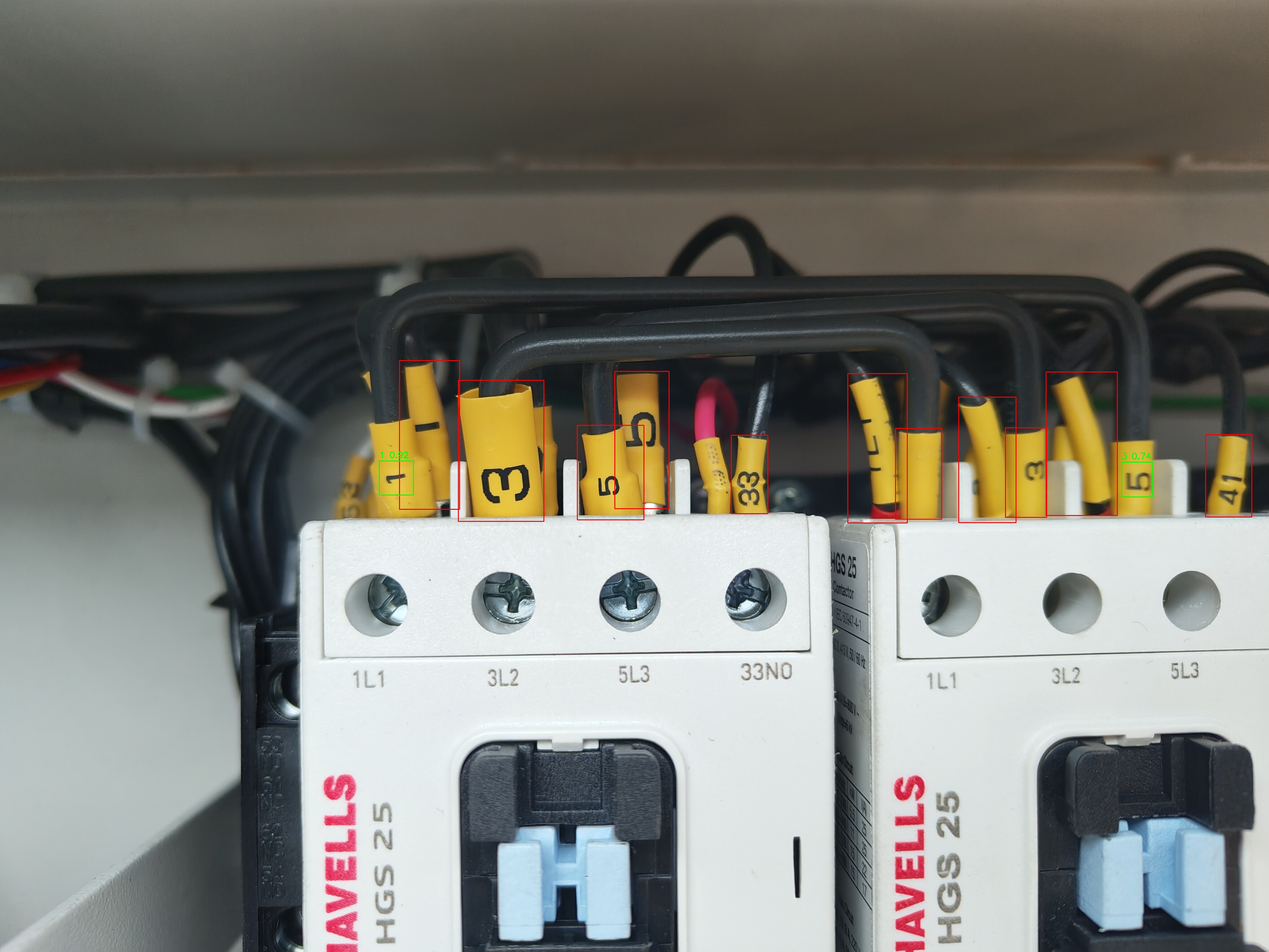
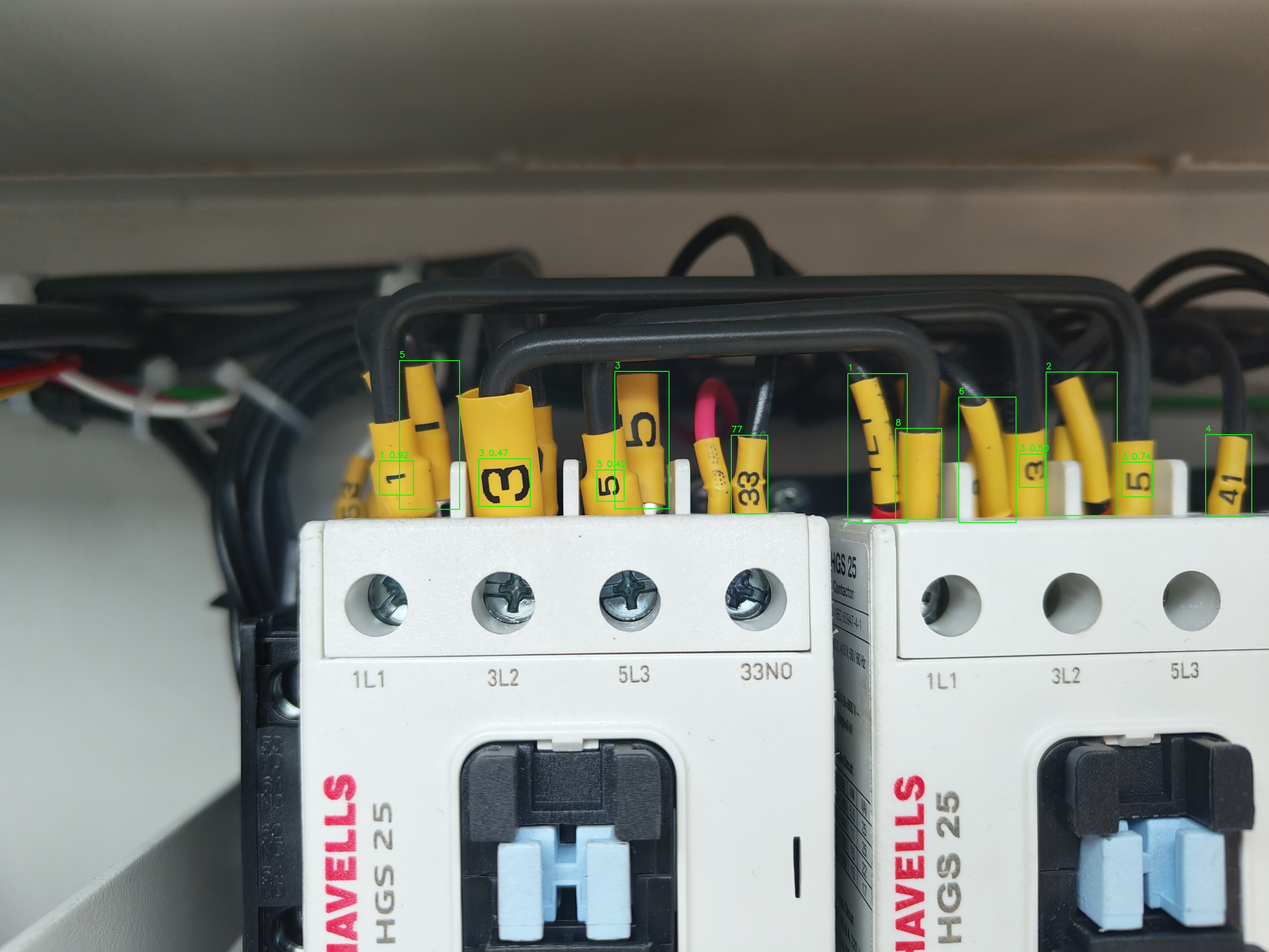
added updation

diff --git a/templates/correct_values.html b/templates/correct_values.html
@@ -9,7 +9,7 @@
     <form method="post">
         {% for idx, box in enumerate(red_boxes) %}
             <label for="box{{ idx }}">Box {{ idx }}: </label>
-            <input type="text" name="box{{ idx }}" id="box{{ idx }}">
+            <input type="text" name="{{ idx }}" id="{{ idx }}">
             <br>
         {% endfor %}
         <input type="submit" value="Submit">

diff --git a/app.py b/app.py
@@ -17,22 +17,10 @@ def get_bbox_center(bbox):
     center_y = (y1 + y2) / 2
     return center_x, center_y
 
-@app.route('/', methods=['GET', 'POST'])
-def index():
-    if request.method == 'POST':
-        file = request.files['image']
-        file_path = 'static/images/uploaded_image.jpg'
-        file.save(file_path)
-        return redirect(url_for('process_image'))
-    return render_template('index.html')
-
-@app.route('/process_image', methods=['GET', 'POST'])
-def process_image():
-    if request.method == 'POST':
-        correct_values = request.form.to_dict()
-        return render_template('display.html', values=correct_values)
-    
-    image = cv2.imread('static/images/uploaded_image.jpg')
+def update(image_path,correct_values):
+    no_red_box=0
+    red_boxes = {}
+    image = cv2.imread(image_path)
     segmentation_results = segmentation_model(image)
     segmentation_bboxes = segmentation_results[0].boxes.xyxy.cpu().numpy()
 
@@ -44,7 +32,71 @@ def process_image():
         detection_confidences = detection_results[0].boxes.conf.cpu().numpy()
         detection_labels = detection_results[0].boxes.cls.cpu().numpy()
 
-    red_boxes = []
+    # # Convert to integer labels for easier processing
+    # detection_labels = [int(label) for label in detection_labels]
+
+    # # Draw and update bounding boxes
+    # for idx, detection_bbox in enumerate(detection_bboxes):
+    #     confidence = detection_confidences[idx]
+    #     label = detection_labels[idx]
+    #     user_label = correct_values.get(f"box{idx}", str(label))
+        
+    #     color = (0, 255, 0)
+    #     x1, y1, x2, y2 = map(int, detection_bbox)
+    #     cv2.rectangle(image, (x1, y1), (x2, y2), color, 2)
+    #     cv2.putText(image, f"{user_label} {confidence:.2f}", (x1, y1 - 10), cv2.FONT_HERSHEY_SIMPLEX, 0.9, color, 2)
+            
+    for segmentation_bbox in segmentation_bboxes:
+        sx1, sy1, sx2, sy2 = segmentation_bbox
+        for detection_bbox, confidence, label in zip(detection_bboxes, detection_confidences, detection_labels):
+            center_x, center_y = get_bbox_center(detection_bbox)
+            inside_segmentation = False
+            if sx1 <= center_x <= sx2 and sy1 <= center_y <= sy2:
+                inside_segmentation = True
+                break
+
+        if inside_segmentation and confidence >= 0.40:
+            color = (0, 255, 0)
+            x1, y1, x2, y2 = map(int, detection_bbox)
+            cv2.rectangle(image, (x1, y1), (x2, y2), color, 2)
+            cv2.putText(image, f"{detection_result.names[label]} {confidence:.2f}", (x1, y1 - 10), cv2.FONT_HERSHEY_SIMPLEX, 0.9, color, 2)
+        else:
+            color = (0, 0, 255)
+            red_boxes[no_red_box]=segmentation_bbox
+            no_red_box= no_red_box+1
+            # sx1, sy1, sx2, sy2 = map(int, segmentation_bbox)
+            # cv2.rectangle(image, (sx1, sy1), (sx2, sy2), color, 2)
+            # cv2.putText(image, f"Box {len(red_boxes)-1}", (sx1, sy1 - 10), cv2.FONT_HERSHEY_SIMPLEX, 0.9, color, 2)
+
+    print(red_boxes)
+    print(correct_values)
+    for i in range(0,len(red_boxes)):
+        color = (0, 255, 0)
+        x1, y1, x2, y2 = map(int, red_boxes.get(i))
+        cv2.rectangle(image, (x1, y1), (x2, y2), color, 2)
+        cv2.putText(image, f"{correct_values[str(i)]}", (x1, y1 - 10), cv2.FONT_HERSHEY_SIMPLEX, 0.9, color, 2)
+    
+    cv2.imwrite('static/images/marked_image.jpg', image)
+    
+    
+
+def analyse(image_path):
+    no_red_box=0
+    red_boxes = {}
+    
+    image = cv2.imread(image_path)
+    segmentation_results = segmentation_model(image)
+    segmentation_bboxes = segmentation_results[0].boxes.xyxy.cpu().numpy()
+
+    detection_results = detection_model(image)
+        
+                     
+    for detection_result in detection_results:
+        detection_bboxes = detection_results[0].boxes.xyxy.cpu().numpy()
+        detection_confidences = detection_results[0].boxes.conf.cpu().numpy()
+        detection_labels = detection_results[0].boxes.cls.cpu().numpy()
+
+    
         
     for segmentation_bbox in segmentation_bboxes:
         sx1, sy1, sx2, sy2 = segmentation_bbox
@@ -55,21 +107,42 @@ def process_image():
                 inside_segmentation = True
                 break
 
-        if inside_segmentation and confidence >= 0.50:
+        if inside_segmentation and confidence >= 0.40:
             color = (0, 255, 0)
             x1, y1, x2, y2 = map(int, detection_bbox)
             cv2.rectangle(image, (x1, y1), (x2, y2), color, 2)
             cv2.putText(image, f"{detection_result.names[label]} {confidence:.2f}", (x1, y1 - 10), cv2.FONT_HERSHEY_SIMPLEX, 0.9, color, 2)
         else:
             color = (0, 0, 255)
-            red_boxes.append(detection_bbox)
+            red_boxes[no_red_box]=segmentation_bbox
             sx1, sy1, sx2, sy2 = map(int, segmentation_bbox)
             cv2.rectangle(image, (sx1, sy1), (sx2, sy2), color, 2)
-            cv2.putText(image, f"Box number:{len(red_boxes-1)}", (sx1, sy1 - 10), cv2.FONT_HERSHEY_SIMPLEX, 0.9, color, 2)
+            cv2.putText(image, f"Box {no_red_box}", (sx1, sy1 - 10), cv2.FONT_HERSHEY_SIMPLEX, 0.9, color, 2)
+            no_red_box= no_red_box+1
 
     cv2.imwrite('static/images/marked_image.jpg', image)
+    # print(red_boxes)
+    return red_boxes
 
-    return render_template('correct_values.html', red_boxes=red_boxes, enumerate=enumerate)
+@app.route('/', methods=['GET', 'POST'])
+def index():
+    if request.method == 'POST':
+        file = request.files['image']
+        file_path = 'static/images/uploaded_image.jpg'
+        file.save(file_path)
+        return redirect(url_for('process_image'))
+    return render_template('index.html')
+    
+@app.route('/process_image', methods=['GET', 'POST'])
+def process_image():
+    if request.method == 'POST':
+        correct_values = request.form.to_dict()
+        # print(correct_values)
+
+        update('static/images/uploaded_image.jpg',correct_values)
+        return render_template('display.html', values=correct_values)
+        
+    return render_template('correct_values.html', red_boxes=analyse('static/images/uploaded_image.jpg'), enumerate=enumerate)
 
 if __name__ == '__main__':
     app.run(debug=True)
